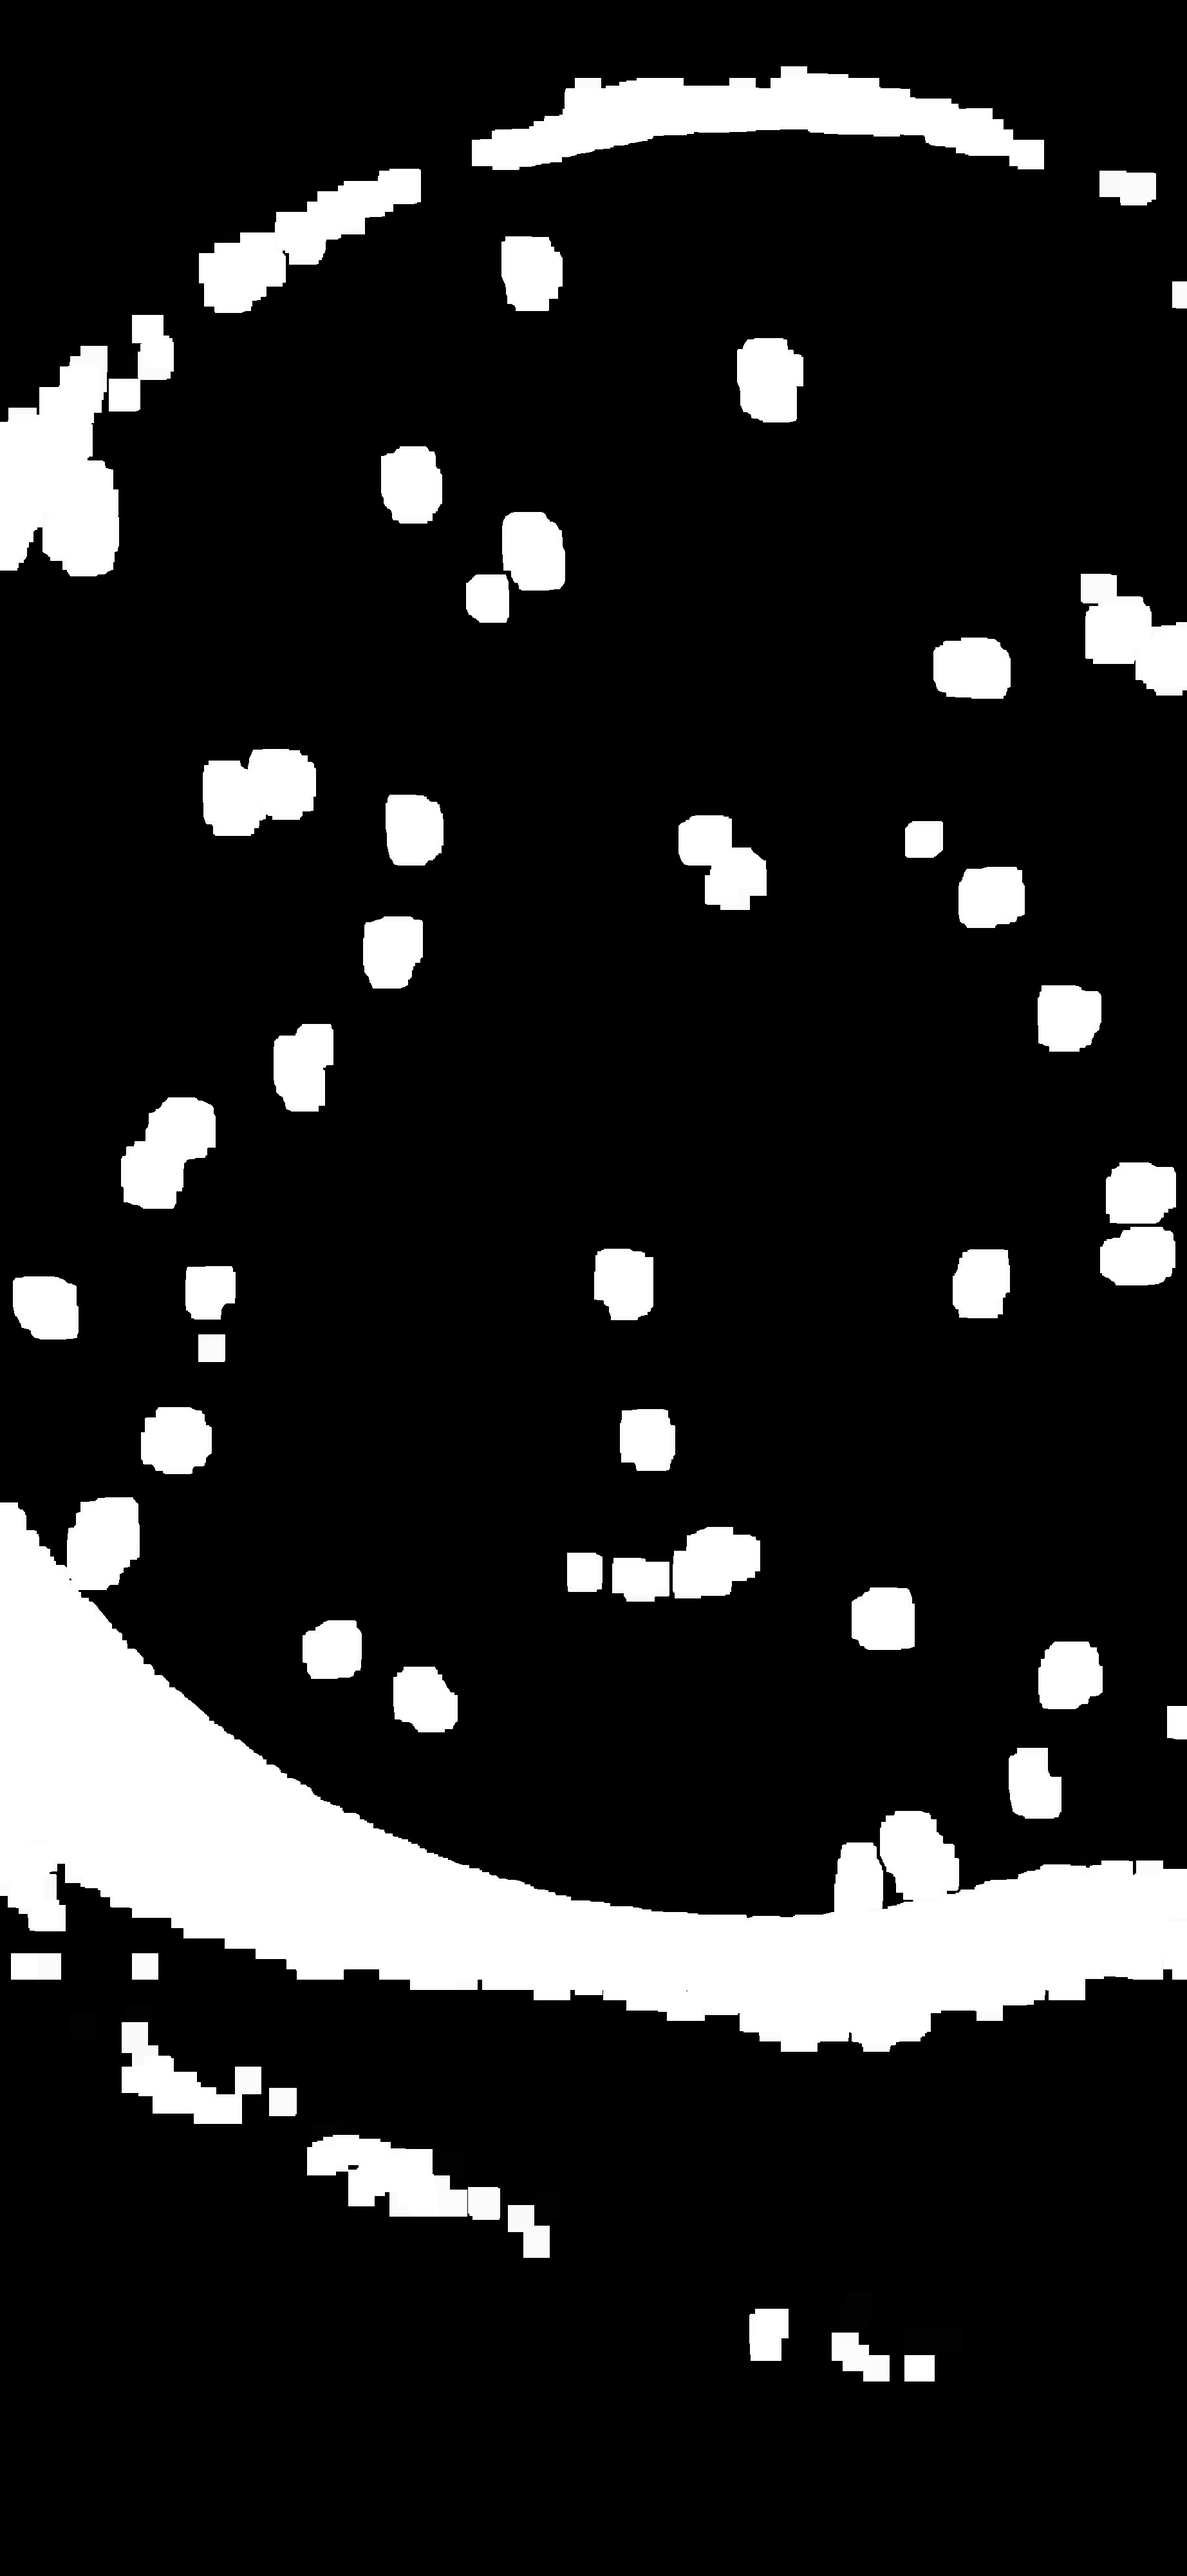
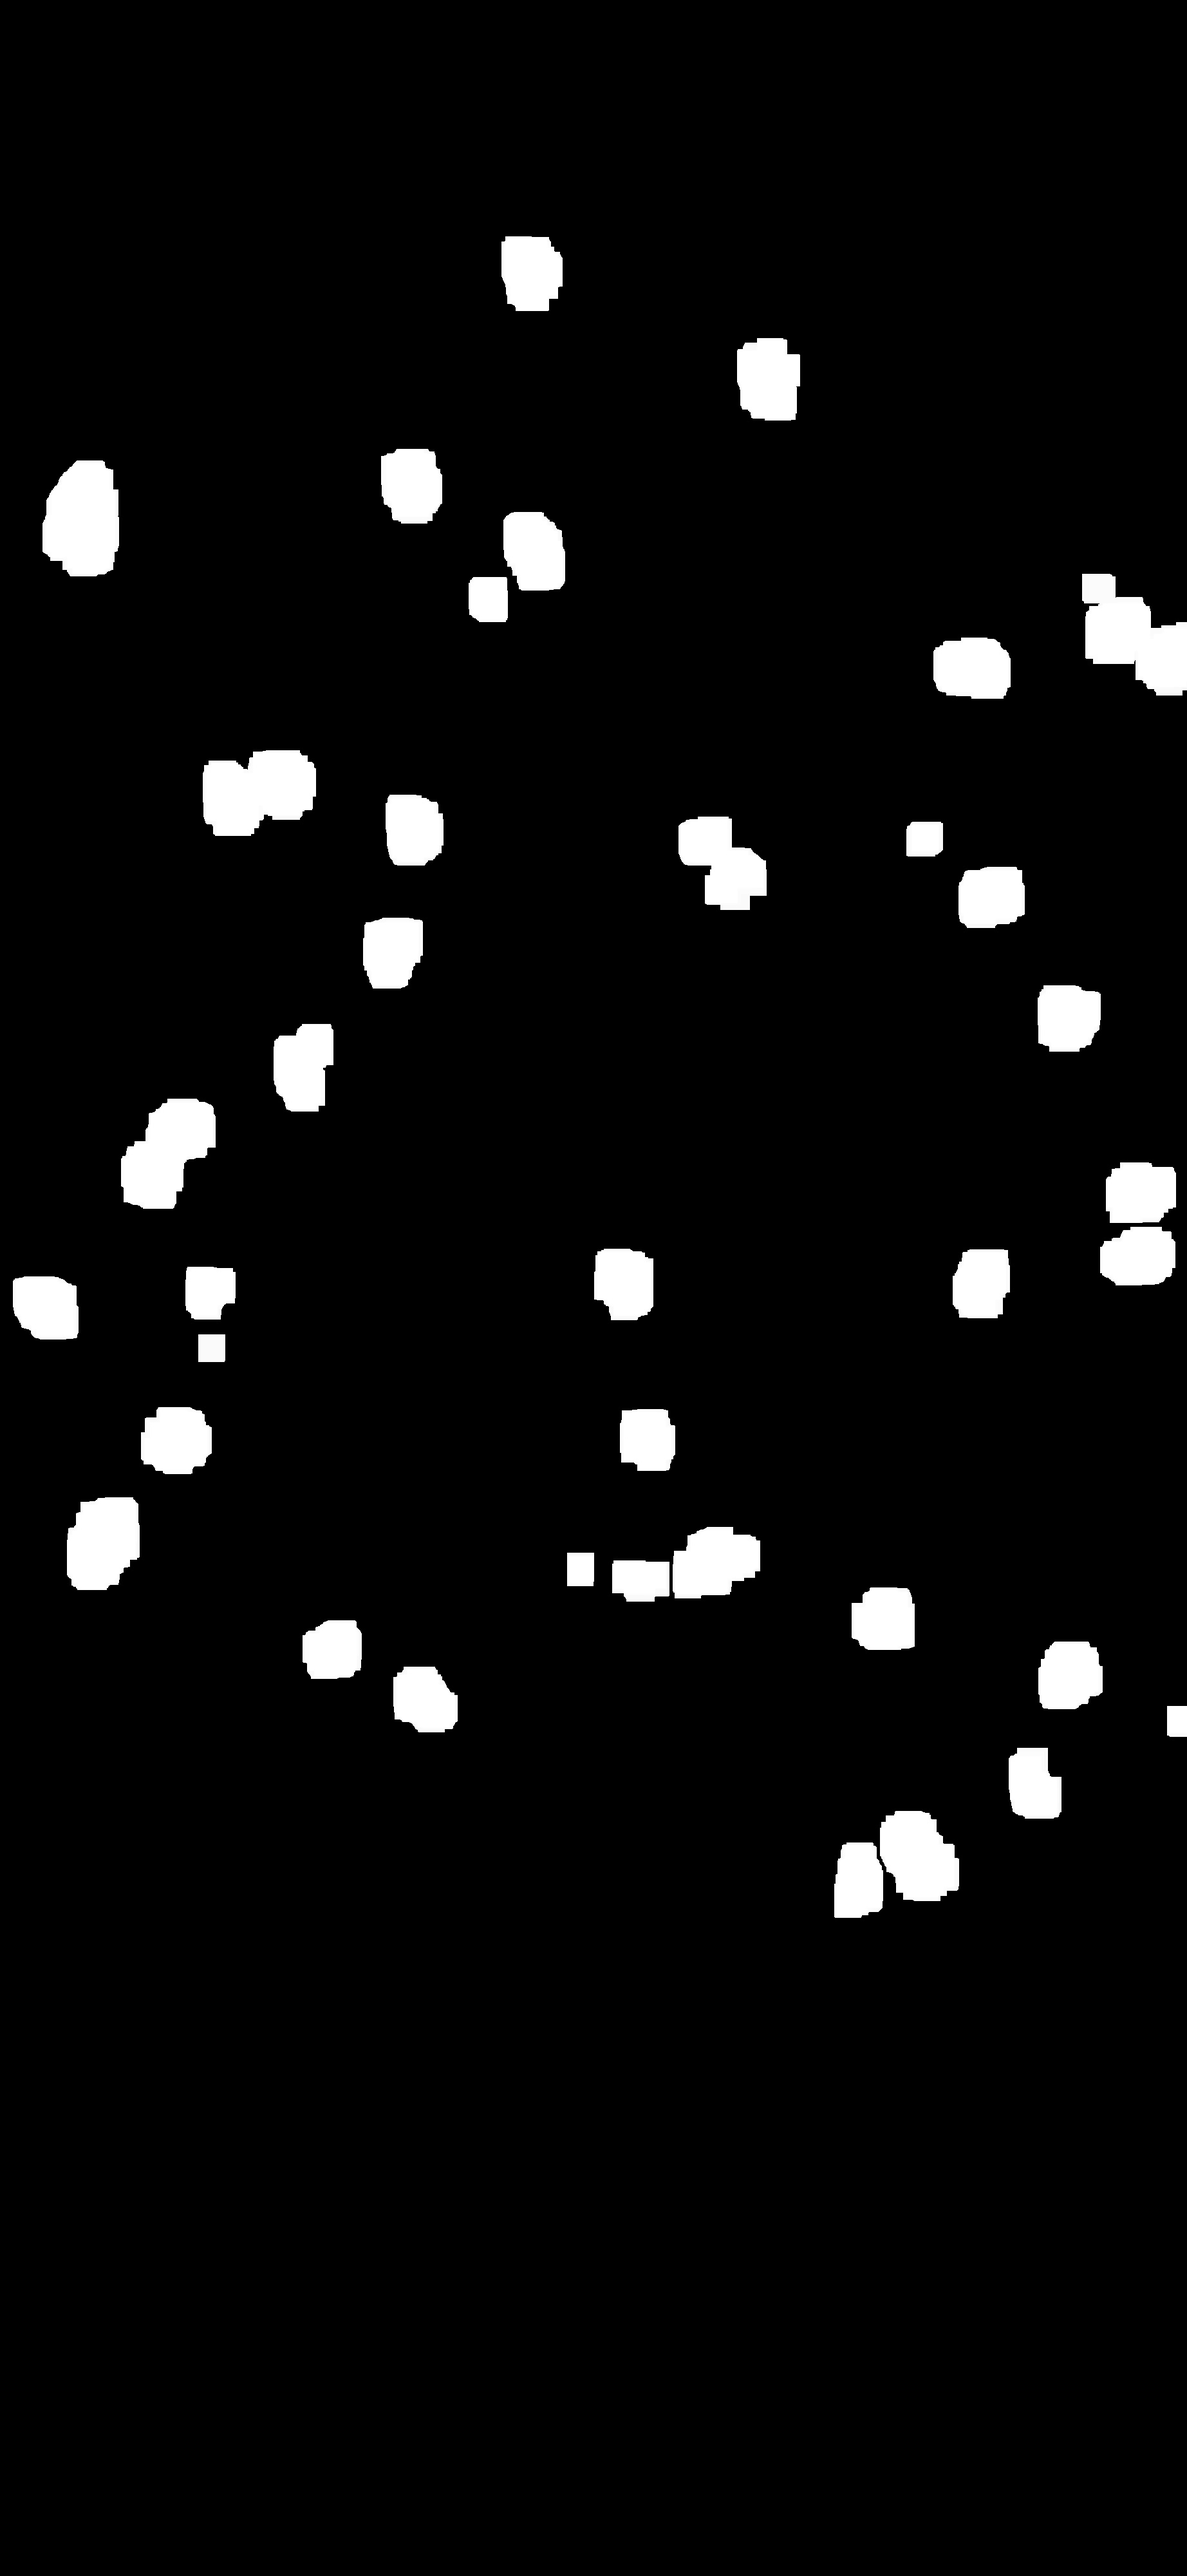
cca done (ccaed_img) and cropping of unwanted region too

diff --git a/src/preprocessor/main.py b/src/preprocessor/main.py
@@ -51,7 +51,7 @@ def hue_separate():
     return cv2.cvtColor(frame, cv2.COLOR_BGR2GRAY)
 
 def get_full_img_binary(gray):
-    thresh = cv2.threshold(gray, 0, 255,
+    thresh = cv2.threshold(gray, 20, 255,
 	cv2.THRESH_BINARY)[1]
     show("thresh", thresh)
     cv2.imwrite("../images/output/asds_thresh.jpg", thresh)
@@ -74,7 +74,8 @@ def cca(thresh):
     output = cv2.connectedComponentsWithStats(
 	thresh, 4, cv2.CV_32S)
     (numLabels, labels, stats, centroids) = output
-    # print("output", output, centroids)
+    output_img = INPUT_FRAME.copy()
+    print("centroids", centroids, len(centroids))
     for i in range(0, numLabels):
         # if this is the first component then we examine the
         # *background* (typically we would just ignore this
@@ -87,7 +88,7 @@ def cca(thresh):
             text = "examining component {}/{}".format( i + 1, numLabels)
         # print a status message update for the current connected
         # component
-        print("[INFO] {}".format(text))
+        # print("[INFO] {}".format(text))
         # extract the connected component statistics and centroid for
         # the current label
         x = stats[i, cv2.CC_STAT_LEFT]
@@ -96,18 +97,19 @@ def cca(thresh):
         h = stats[i, cv2.CC_STAT_HEIGHT]
         area = stats[i, cv2.CC_STAT_AREA]
         print("area", area)
-        if area < 5000:
+        if area < 600 or area > 30000:
             continue
         (cX, cY) = centroids[i]
         
-        # output = thresh.copy()
-        # cv2.rectangle(output, (x, y), (x + w, y + h), (255, 255, 255), 3)
-        # cv2.circle(output, (int(cX), int(cY)), 4, (255, 255, 255), -1)
         
+        cv2.rectangle(output_img, (x, y), (x + w, y + h), (255, 255, 255), 3)
+        cv2.circle(output_img, (int(cX), int(cY)), 4, (255, 255, 255), -1)
         
         componentMask = (labels == i).astype("uint8") * 255
         cv2.imshow("Connected Component", componentMask)
         cv2.waitKey(0)
+    return output_img
+
 
 def main():
     gray = hue_separate()
@@ -169,7 +171,9 @@ def main():
     cv2.imwrite("../images/output/dirtless.jpg", dirtless)
 
     ## apply cca and form bounding boxes around blobs. 
-    cca(dirtless)
+    ccaed_img = cca(dirtless)
+    cv2.imwrite("../images/output/ccaed_img.jpg", ccaed_img)
+
     
 
 

diff --git a/src/preprocessor/plan.md b/src/preprocessor/plan.md
@@ -29,6 +29,15 @@ Let us say we have 4 things
 
 Above steps are done and now we have a beautiful image with no dirt. (dirtless.jpg)
 
+## Crop
+Somewhere we need to do analysis only on circular region in the sample image (i.e. without the black area in sample that fills up space around microscope window)
+
+plan for that:
+1. threshold at 40 - ```_,thresh = cv2.threshold(gray,40,255,cv2.THRESH_BINARY)```
+2. convert it to rgb and inpaint the full image (because some sperm also become black)
+3. threshold again at much lower value than 40
+4. we have a mask that we have to use everywhere from then on. 
+
 ## Next Plan
 
 1. Now we are going to apply cca to the dirtless image and form bounding boxes.
